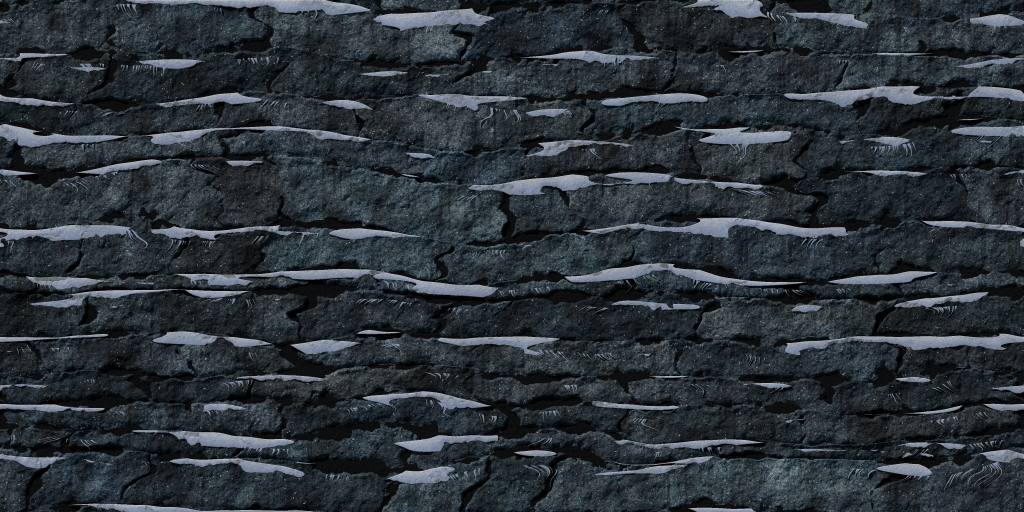
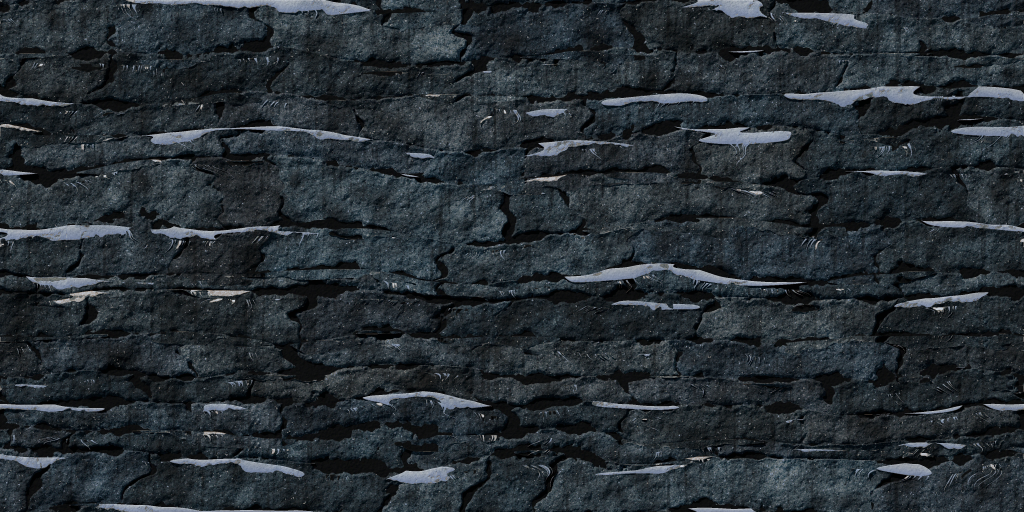
Версия 2026.10.19-75: порода Арктики без «рваной бумаги» из снежных полос, тёплый закат на гребнях стен замков, без висящих огоньков на улицах города
Claude-Session: https://claude.ai/code/session_01JvXrYdG1XCH4i3GESsQzbh

diff --git a/js/terrain_visual.js b/js/terrain_visual.js
@@ -921,6 +921,7 @@ function buildTerrainVisual(T, theme, map, raster, waterY) {
     veinW: G.veins ? G.veins.w : 0, veinGlow: !!(G.veins && G.veins.glow), veinMask: G.veins && G.veins.mask || 0.56, veinHalo: G.veins && G.veins.halo || 5,
     band: G.band, st: 1 - (1 - G.bandSharp) * 0.6, rockBand: G.rockBand || Math.max(26, G.band * 1.2),
     iceA: [226, 246, 255], iceB: [92, 158, 214],
+    sunset: theme.id === 'castle',
   };
   /* глубина для тона, камней и корней грунта — сглаженная по горизонтали (±48 px по твёрдому): под полом туннеля глубина по столбцу
      начинается заново, и у торцов туннеля тон, валуны и корни менялись прямой вертикальной чертой (город x≈300, 4500) */
@@ -1041,6 +1042,8 @@ function buildTerrainVisual(T, theme, map, raster, waterY) {
         if (!o.tex) r += (r - 118) * 0.12, g += (g - 118) * 0.12, bl += (bl - 118) * 0.12;   // S-кривая: глубже тени, ярче свет
         // тон света у освещённой поверхности (тёплый закатный или холодный лунный)
         if (dd < 50) { const kw = (1 - dd / 50) * (1 - shd) * 0.9; r *= 1 + kw * SWR; g *= 1 + kw * SWG; bl *= 1 + kw * SWB; }
+        /* замки на закате (критик r30: «свет плоский»): верх кладки под открытым небом тёплый, +22 % у кромки, спад за 36 px */
+        if (S.sunset && mt === 3 && t < 36 && !o.emit) { const q = (1 - t / 36) * (1 - shd * 0.7), k = q * q * 0.22; r *= 1 + k * 1.15; g *= 1 + k * 0.7; bl *= 1 + k * 0.2; }
         if (o.emit) { r = o.r * 1.05; g = o.g * 1.02; bl = o.b; }                    // светящиеся окна не темнеют от теней и глубины
         if (S.hasWaterline && !o.emit) {
           const dyw = y - S.waterY;
@@ -1381,7 +1384,7 @@ function drawSurfaceDetails(T, theme, seed, waterY, tops, ceils, mat) {
     let nextX = -1;
     for (let k = 0; k < tops.length; k += 2) {
       const x = tops[k], y = tops[k + 1];
-      if (x < nextX || y > waterY - 20 || !(matAt(x, y + 2) === 5 || matAt(x, y + 2) === 6 || matAt(x, y + 2) === 1) || !flatTop(x, y) || T.isSolid(x, y - 40) || T.isSolid(x + 24, y - 20) || T.isSolid(x - 8, y - 20)) continue;
+      if (x < nextX || y > waterY - 20 || !(matAt(x, y + 2) === 5 || matAt(x, y + 2) === 6) /* только крыши: на асфальте улицы (mat 1) антенны с огоньком смотрелись «розовыми шариками» (r31) */ || !flatTop(x, y) || T.isSolid(x, y - 40) || T.isSolid(x + 24, y - 20) || T.isSolid(x - 8, y - 20)) continue;
       nextX = x + 50 + rng() * 90; const kind = rng();
       if (kind < 0.45) {                                                                     // кондиционер: корпус, решётка, вентилятор
         const w = 22 + rng() * 8, h = 15;

diff --git a/js/decor.js b/js/decor.js
@@ -776,7 +776,13 @@ function placeDecor(T, theme, map, waterY, tops, mat) {
   // из версий ×3 (assets/tex/surface) поверх ландшафта, скрывая там, где земля, — как будто они по-прежнему позади неё
   const sl = typeof TerrainSurface !== 'undefined' ? new TerrainSurface(T, c) : null;
   DECOR_LAYER = sl ? { layer: sl, rec: sl.recorder(), ctx: c } : null;
-  try { placeDecorOn(T, theme, map, waterY, tops, mat, c); } finally { DECOR_LAYER = null; }
+  /* свечение декора (фары, фонари, лава) — на отдельный слой: где объект закрыт передним ландшафтом, его свет тоже скрыт
+     (критик r31: «розовые шарики» — задние фары машин за домами светились сквозь стену) */
+  const g0 = T.gctx, gl = g0 ? makeCanvas(T.W, T.H) : null; if (gl) T.gctx = gl.getContext('2d');
+  try { placeDecorOn(T, theme, map, waterY, tops, mat, c); } finally {
+    DECOR_LAYER = null;
+    if (gl) { T.gctx = g0; const x = gl.getContext('2d'); x.globalCompositeOperation = 'destination-out'; x.drawImage(T.canvas, 0, 0); g0.drawImage(gl, 0, 0); }
+  }
   lightDecorLayer(layer, T); T.dctx.drawImage(layer, 0, 0);
   T.spriteLayer = sl && sl.commands.length ? sl : null;
   if (sl) { sl.canvas = null; sl.ctx = null; }   // 1× уже в слое декора; временный холст не держим

diff --git a/index.html b/index.html
@@ -114,7 +114,7 @@
         </div>
       </div>
     </div>
-    <footer class="menu-footer"><span id="game-version">ВЕРСИЯ 2026.10.19-74</span><span>ПЛАНИРУЙ ХОД. МЕНЯЙ ЛАНДШАФТ.</span><span class="footer-status"><i></i> ГОТОВ К БОЮ</span></footer>
+    <footer class="menu-footer"><span id="game-version">ВЕРСИЯ 2026.10.19-75</span><span>ПЛАНИРУЙ ХОД. МЕНЯЙ ЛАНДШАФТ.</span><span class="footer-status"><i></i> ГОТОВ К БОЮ</span></footer>
   </section>
 
   <!-- Онлайн -->

diff --git a/dev/tools/arctic_snow_relief.py b/dev/tools/arctic_snow_relief.py
@@ -6,7 +6,7 @@ python dev/tools/arctic_snow_relief.py [--keep 0.55] [--seed 7] [--name rock_arc
 - снег = светлые малонасыщенные пиксели; каждый вертикальный отрезок снега в столбце затеняется сверху вниз
   (верх — свет, низ — синеватая тень 0.6), по верхней кромке — блик 1–2 px, лёгкое зерно — снег объёмный, а не плоский;
 - камень (не снег) умножается на --rock-tint (оттенок по эталону);
-- по желанию часть пятен (1 − keep, по умолчанию не убирается: остаются висящие сосульки) убирается: отрезок заполняется зеркальной копией породы над ним, края смешиваются.
+- доля пятен (1 − keep, по умолчанию 65 %) убирается: пятно заполняется камнем прямо над ним (один сдвиг на пятно), края мягкие.
 Пишет родную webp (lossy q90, как make_native --lossy) и малую assets/tex/<имя>.png — точное уменьшение 4×4.
 """
 import argparse
@@ -24,7 +24,7 @@ Image.MAX_IMAGE_PIXELS = None
 def main():
     ap = argparse.ArgumentParser()
     ap.add_argument('--name', default='rock_arctic')
-    ap.add_argument('--keep', type=float, default=1.0)
+    ap.add_argument('--keep', type=float, default=0.35)
     ap.add_argument('--seed', type=int, default=7)
     ap.add_argument('--rock-tint', default='1.159,0.944,0.748', help='множители каналов камня (не снега): r,g,b')
     a = ap.parse_args()
@@ -42,6 +42,20 @@ def main():
     drop = np.zeros(n + 1, bool); drop[1:] = rng.random(n) > a.keep
     sizes = ndimage.sum(snow, lab, range(n + 1))
     drop[sizes < 30] = False                      # мелочь (сосульки, иней) не трогаем
+    # r31: «линзы снега посреди скалы — как рваная бумага»: убранные пятна заполняются камнем прямо над ними
+    # (тот же сдвиг для всего пятна — без полос), края — мягко
+    src0 = img.copy(); repl = np.zeros((H, W), np.float32); fill_img = img.copy()
+    for k, sl in enumerate(ndimage.find_objects(lab), 1):
+        if sl is None or not drop[k]: continue
+        ys, xs = sl; hh = ys.stop - ys.start; off = hh + 10
+        m = ndimage.binary_dilation(lab[sl] == k, iterations=3)
+        yy = (np.arange(ys.start, ys.stop) - off) % H
+        patch = src0[yy][:, xs]
+        fill_img[sl][m] = patch[m]; repl[sl][m] = 1.0
+    repl = ndimage.gaussian_filter(repl, 1.5)
+    img = img * (1 - repl[..., None]) + fill_img * repl[..., None]
+    snow &= ~(drop[lab] & (lab > 0))
+    L = img.mean(2)                               # яркость после заполнения: оттенок камня ложится и на заплатки
     out = img.copy()
     grain = rng.normal(0, 1, (H, W)).astype(np.float32)
     grain = ndimage.gaussian_filter(grain, 1.2) * 6
@@ -54,7 +68,7 @@ def main():
         d = np.diff(np.r_[0, col.astype(np.int8), 0])
         for y0, y1 in zip(np.flatnonzero(d == 1), np.flatnonzero(d == -1)):
             h = y1 - y0
-            if drop[lab[y0, x]]:
+            if False:
                 # зеркальная копия породы над отрезком (с переносом по периоду) + мягкие края
                 src = (y0 - 1 - np.arange(h) - 2) % H
                 fill = img[src, x]

diff --git a/dev/reviews/r29.md b/dev/reviews/r29.md
@@ -22,3 +22,9 @@ alien 4, arctic 4, canyon 5 (кадр без массива), castles 6, city 6.
 вулкан gain [1.8, 1.9, 1.78], ореол lavarock мягкий (были «оранжевые круги»).
 Остальное из r30: alien — контраст глыб 35–40 %, мох на кромке, гриб засвечен; замки — тёплый свет гребня, тон камней ±12 %;
 город — разнообразие окон, декор крыш; пираты — предметы на палубах; долина — башня темнее с мхом, ель ярусами.
+
+## r31 (19.10, после v73)
+alien 5, arctic 4, canyon 4, castles 6, city 6.5, pirate 6, valley 6.5, volcano 5.
+v75: Арктика — 65 % «линз» снега посреди скалы убраны (заплатка камнем сверху, без полос); город — антенны с огоньком только на крышах
+(на асфальте были «розовые шарики»); свечение декора скрывается за передним ландшафтом; замки — тёплый закат на верхних 36 px кладки.
+v76 (в работе): песчаник каньона — длинные пласты 36–80 ед., тонкие швы, без пятен (make_masonry.py sandstone).
